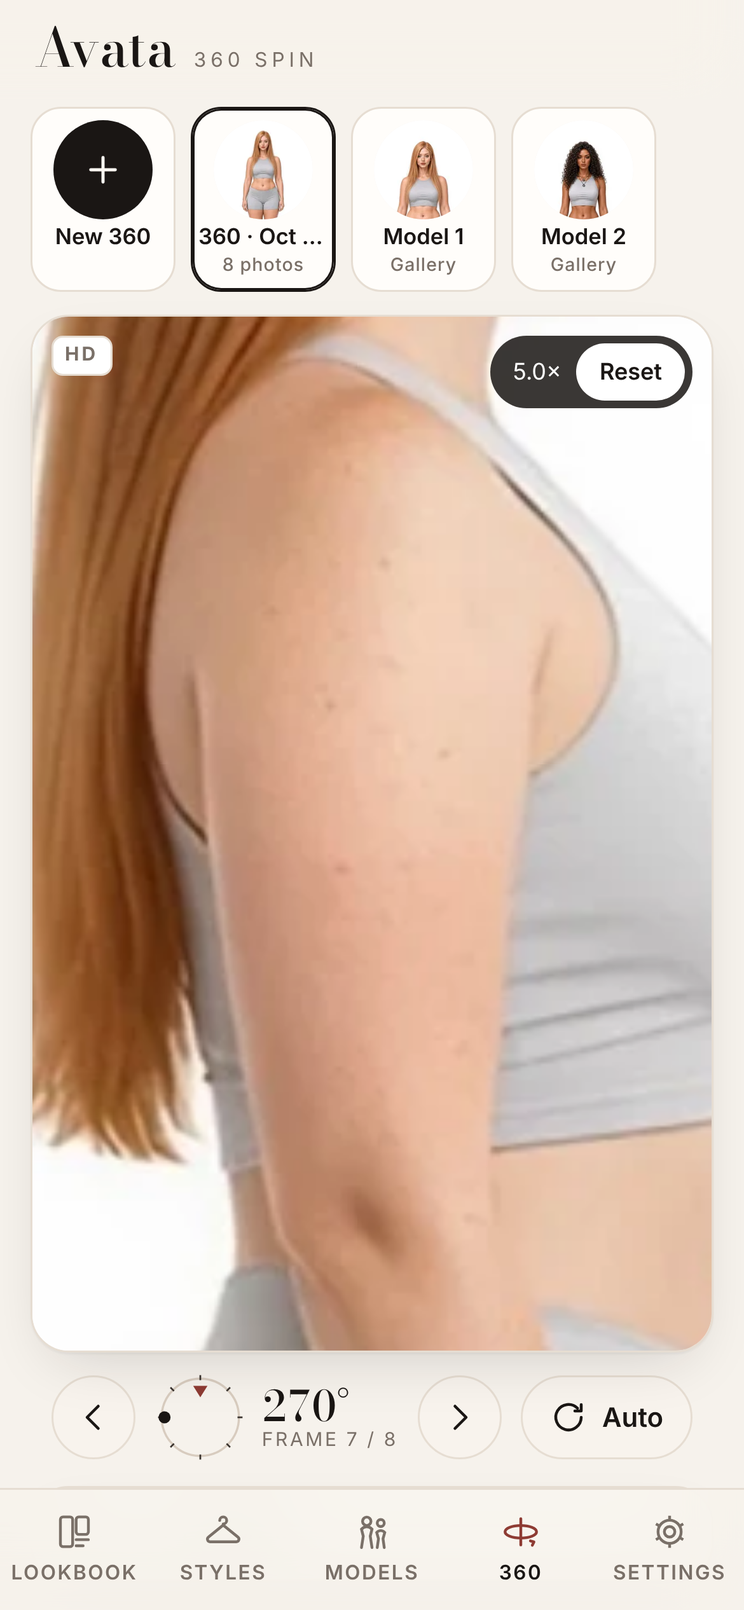
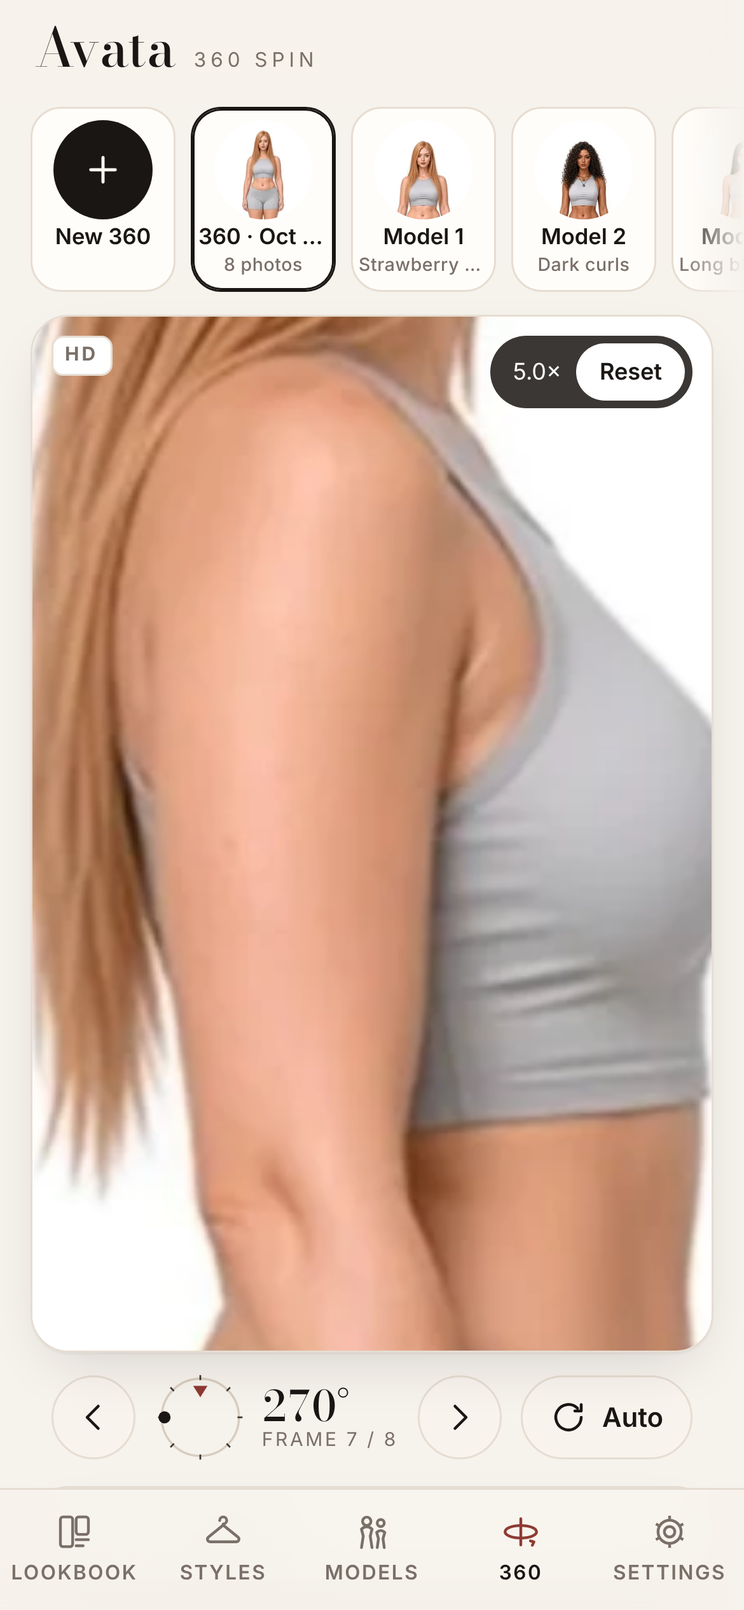
Starters: Models 3-6 from Jordan's exact turnaround sheets (same sizes/format as Model 1, assetRev enforced); existing installs gain new starters once (knownStarters; deleted ones never return); 360 switcher scales to 6 gallery models on mobile

diff --git a/js/store.js b/js/store.js
@@ -2,7 +2,7 @@
 import { db, uid } from './db.js';
 import { STARTERS, SAMPLE_STYLES, SAMPLE_LOOKS } from './starters.js';
 import { makeThumb } from './imaging.js';
-import { IMAGE_KEYS, contentRev, modelNeedsRefresh, lookNeedsRefresh, refreshedModel, refreshedLook, lookImageKey } from './starter-sync.js';
+import { IMAGE_KEYS, contentRev, modelNeedsRefresh, lookNeedsRefresh, refreshedModel, refreshedLook, lookImageKey, initialKnownStarters, startersToAdd, withKnown, newStarterRecord } from './starter-sync.js';
 
 export const CATEGORIES = ['Tops', 'Bottoms', 'Dresses', 'Outerwear', 'Sets', 'Knitwear', 'Activewear', 'Swim', 'Loungewear', 'Accessories', 'Other'];
 export const STATUSES = ['Concept', 'Sampling', 'Approved', 'In production', 'Shipped', 'Archived'];
@@ -33,14 +33,34 @@ async function verifiedRev(s, blobs) { const h = await contentRev(blobs).catch((
 
 export async function seedStarters(force = false) {
   if ((await db.get('kv', 'seeded')) && !force) return;
-  for (const s of STARTERS) {
+  const t0 = Date.now();
+  for (const [i, s] of STARTERS.entries()) {
     if (!force && await db.get('models', s.id)) continue;
     const blobs = await fetchStarterImages(s, force);
-    const { file, assetRev, ...rest } = s;
     const rev = await verifiedRev(s, blobs); // unverified (stale cache) → no rev → syncStarters retries next launch
-    await db.put('models', { ...rest, ...blobs, ...(rev ? { assetRev: rev } : {}), starter: true, createdAt: Date.now() - (s.id.endsWith('1') ? 2 : 1) });
+    await db.put('models', newStarterRecord(s, blobs, rev, t0 - (STARTERS.length - i))); // keeps STARTERS order
   }
+  await db.put('kv', withKnown(await db.get('kv', 'knownStarters'), STARTERS.map(s => s.id)), 'knownStarters');
   await db.put('kv', true, 'seeded');
+}
+
+/** Existing installs: add bundled starters that shipped after this install was seeded (once each). A starter the user
+ *  deleted stays deleted (its id is in kv 'knownStarters'); user models/looks/edits are untouched. A failed download
+ *  isn't recorded as known, so it is retried on the next launch. */
+export async function addNewStarters() {
+  if (!(await db.get('kv', 'seeded'))) return;
+  let known = await db.get('kv', 'knownStarters');
+  if (!Array.isArray(known)) { known = initialKnownStarters(await db.all('models')); await db.put('kv', known, 'knownStarters'); }
+  const t0 = Date.now();
+  for (const [i, s] of startersToAdd(STARTERS, known).entries()) {
+    try {
+      if (!(await db.get('models', s.id))) {
+        const blobs = await fetchStarterImages(s, true);
+        await db.put('models', newStarterRecord(s, blobs, await verifiedRev(s, blobs), t0 + i));
+      }
+      known = withKnown(known, [s.id]); await db.put('kv', known, 'knownStarters');
+    } catch (e) { console.warn('Avata: could not add new starter', s.id, '— will retry', e); }
+  }
 }
 
 /** Re-sync installed starters with the shipped assets. Replaces ONLY image fields of a starter model whose assetRev
@@ -100,6 +120,7 @@ export async function initData() {
   await seedStarters();
   await migrateGens();
   await seedSamples();
+  await addNewStarters(); // starters shipped after this install was seeded (never re-adds deleted ones)
   await syncStarters(); // refresh starters whose shipped images changed since they were stored
   await reload();
 }

diff --git a/styles.css b/styles.css
@@ -330,13 +330,17 @@ dialog.sheet.showcase{background:#faf7f2;color:#1a1614}
 
 /* 360 spin */
 .spin-page{padding-top:2px}
-.sp-switch{display:flex;gap:8px;overflow-x:auto;scrollbar-width:none;margin:0 -16px 10px;padding:2px 16px;scroll-snap-type:x proximity}
+.sp-switch{position:relative;display:flex;gap:8px;overflow-x:auto;scrollbar-width:none;margin:0 -16px 10px;padding:2px 16px;scroll-snap-type:x proximity;scroll-padding:0 16px;overscroll-behavior-x:contain;-webkit-overflow-scrolling:touch}
+/* many models (spins + 6 gallery models): soft edge fades show there is more to scroll */
+.sp-switch.fade-r{-webkit-mask-image:linear-gradient(90deg,#000 calc(100% - 34px),transparent);mask-image:linear-gradient(90deg,#000 calc(100% - 34px),transparent)}
+.sp-switch.fade-l{-webkit-mask-image:linear-gradient(90deg,transparent,#000 34px);mask-image:linear-gradient(90deg,transparent,#000 34px)}
+.sp-switch.fade-l.fade-r{-webkit-mask-image:linear-gradient(90deg,transparent,#000 34px,#000 calc(100% - 34px),transparent);mask-image:linear-gradient(90deg,transparent,#000 34px,#000 calc(100% - 34px),transparent)}
 .sp-switch::-webkit-scrollbar{display:none}
 .sp-switch button{flex:none;scroll-snap-align:start;display:flex;flex-direction:column;align-items:center;justify-content:flex-start;gap:3px;width:76px;min-height:0;padding:6px 4px 7px;border-radius:16px;background:var(--surface);border:1px solid var(--line);font-weight:500}
 .sp-switch img,.sp-plus{width:52px;height:52px;border-radius:50%;object-fit:cover;object-position:50% 10%;background:var(--surface2)}
 .sp-plus{display:grid;place-items:center;background:var(--solid);color:var(--on-solid)}
 .sp-switch b{font-size:11.5px;line-height:1.2;max-width:68px;overflow:hidden;text-overflow:ellipsis;white-space:nowrap;font-weight:600}
-.sp-switch small{font-size:9.5px;color:var(--muted);letter-spacing:.04em;line-height:1.1}
+.sp-switch small{font-size:9.5px;color:var(--muted);letter-spacing:.02em;line-height:1.15;max-width:68px;text-align:center;overflow:hidden;display:-webkit-box;-webkit-box-orient:vertical;-webkit-line-clamp:2;line-clamp:2}
 .sp-switch [aria-selected=true]{border-color:var(--ink);box-shadow:inset 0 0 0 1px var(--ink)}
 .sv{position:relative;width:100%;height:min(calc(100dvh - 300px - var(--safe-t) - var(--safe-b)),150vw);min-height:340px;background:#fff;border-radius:var(--r);overflow:hidden;box-shadow:var(--shadow);border:1px solid var(--line);touch-action:none;user-select:none;-webkit-user-select:none;-webkit-touch-callout:none;cursor:grab;outline:none}
 .sv:focus-visible{box-shadow:0 0 0 2px var(--acc)}.sv.ptr:focus-visible{box-shadow:var(--shadow)}

diff --git a/js/spin-view.js b/js/spin-view.js
@@ -7,6 +7,7 @@ import { buildSpin, makeSpinThumb } from './spin-build.js';
 
 const GALLERY = '../model-gallery/data/manifest.json';
 let galleryCache = null;
+let onResizeFade = null; addEventListener('resize', () => onResizeFade?.(), { passive: true }); // one listener for every render
 async function galleryModels() {
   if (galleryCache) return galleryCache;
   try {
@@ -34,10 +35,18 @@ export async function renderSpin(v, id) {
 
   function drawSwitch() {
     $('#spSwitch', v).innerHTML = `<button type="button" class="sp-new" id="spNew" aria-label="New 360 from photos or video"><span class="sp-plus">${icon('plus')}</span><b>New 360</b></button>` +
-      items().map(m => `<button type="button" class="sp-item" role="tab" data-id="${esc(m.id)}" aria-selected="${st.cur?.id === m.id}"><img src="${esc(m.thumbUrl)}" alt=""><b>${esc(m.name)}</b><small>${m.gallery ? 'Gallery' : `${m.frames.length} photos`}</small></button>`).join('');
+      items().map(m => `<button type="button" class="sp-item" role="tab" data-id="${esc(m.id)}" aria-selected="${st.cur?.id === m.id}"${m.gallery ? ` title="${esc(`${m.name} · ${m.sub || 'Gallery'}`)}"` : ''}><img src="${esc(m.thumbUrl)}" alt=""><b>${esc(m.name)}</b><small>${m.gallery ? esc(m.sub.split(' · ')[0] || 'Gallery') : `${m.frames.length} photos`}</small></button>`).join('');
     $('#spNew', v).onclick = () => $('#spFile', v).click();
     $$('.sp-item', v).forEach(b => b.onclick = () => select(b.dataset.id));
+    edgeFade();
   }
+  // edge fades on the scrolling switcher (6 gallery models + your spins rarely fit a phone width)
+  function edgeFade() {
+    const sw = $('#spSwitch', v); if (!sw) return;
+    sw.classList.toggle('fade-l', sw.scrollLeft > 4); sw.classList.toggle('fade-r', sw.scrollLeft + sw.clientWidth < sw.scrollWidth - 4);
+  }
+  $('#spSwitch', v).addEventListener('scroll', edgeFade, { passive: true });
+  onResizeFade = edgeFade;
   function drawEmpty() {
     const none = !items().length;
     $('#spEmpty', v).hidden = !none; $('#spView', v).hidden = none;

diff --git a/js/starter-sync.js b/js/starter-sync.js
@@ -28,3 +28,26 @@ export const refreshedLook = (stored, starter, blob) => ({ ...stored, image: blo
 
 /** Which shipped image a sample look shows (sample looks use the model's sheet/front/back file directly). */
 export const lookImageKey = sample => IMAGE_KEYS.includes(sample.view) ? sample.view : 'front';
+
+/* ---------- new starters on existing installs ----------
+ * kv 'knownStarters' = ids of every bundled starter this install has ever been given (kept OR deleted by the user).
+ * A starter shipped later (not in the list) is added once on the next launch and then recorded, so deleting it later
+ * sticks. Installs from before this list existed were seeded with exactly LEGACY_STARTER_IDS, so those count as known
+ * (a legacy starter the user deleted is never re-added). User models, looks and edits are never read or changed. */
+export const LEGACY_STARTER_IDS = ['starter-model-1', 'starter-model-2'];
+
+/** Known-starter list for an install that has none yet: the legacy seed set plus any starter records it still holds. */
+export const initialKnownStarters = (storedModels = []) =>
+  [...new Set([...LEGACY_STARTER_IDS, ...storedModels.filter(m => m && m.starter === true && typeof m.id === 'string').map(m => m.id)])];
+
+/** Shipped starters this install has never been given, in STARTERS order. */
+export const startersToAdd = (starters, known) => { const k = new Set(known || []); return starters.filter(s => !k.has(s.id)); };
+
+/** Known list after offering `ids` (order-preserving, no duplicates). */
+export const withKnown = (known, ids) => [...new Set([...(known || []), ...ids])];
+
+/** Model record for a newly added starter (same shape seedStarters writes). rev = verified assetRev or undefined. */
+export const newStarterRecord = (starter, blobs, rev, createdAt) => {
+  const { file, assetRev, ...rest } = starter;
+  return { ...rest, ...Object.fromEntries(IMAGE_KEYS.map(k => [k, blobs[k]])), ...(rev ? { assetRev: rev } : {}), starter: true, createdAt };
+};

diff --git a/js/starters.js b/js/starters.js
@@ -13,6 +13,26 @@ export const STARTERS = [
     measurements: { bust: 34, waist: 25, hips: 38, inseam: 29 }, measureUnit: 'in', measurementsEstimated: true,
     note: 'Long dark curls, tan skin',
   },
+  {
+    id: 'starter-model-3', name: 'Model 3', file: 'model-3', assetRev: '5bcd40dcd6fd', heightCm: 160, bodyType: 'slim', size: '2–4 / XS',
+    measurements: { bust: 32, waist: 24, hips: 34, inseam: 29 }, measureUnit: 'in', measurementsEstimated: true,
+    note: 'Long straight black hair, fair skin',
+  },
+  {
+    id: 'starter-model-4', name: 'Model 4', file: 'model-4', assetRev: '510dde6f33e6', heightCm: 160, bodyType: 'slim athletic', size: '4–6 / S',
+    measurements: { bust: 34, waist: 26, hips: 36, inseam: 29 }, measureUnit: 'in', measurementsEstimated: true,
+    note: 'Long straight dark-brown hair, tan skin',
+  },
+  {
+    id: 'starter-model-5', name: 'Model 5', file: 'model-5', assetRev: '85ca8e62555e', heightCm: 160, bodyType: 'curvy', size: '12–14 / L',
+    measurements: { bust: 40, waist: 32, hips: 44, inseam: 28 }, measureUnit: 'in', measurementsEstimated: true,
+    note: 'Long wavy black hair, deep tan skin',
+  },
+  {
+    id: 'starter-model-6', name: 'Model 6', file: 'model-6', assetRev: '124ee766ccd1', heightCm: 160, bodyType: 'full-figured', size: '16–18 / XL',
+    measurements: { bust: 44, waist: 38, hips: 48, inseam: 28 }, measureUnit: 'in', measurementsEstimated: true,
+    note: 'Long straight platinum-blonde hair, fair skin',
+  },
 ];
 
 // Clearly-labelled SAMPLE catalog so the app isn't empty. Not real factory data —

diff --git a/sw.js b/sw.js
@@ -3,7 +3,7 @@
 // offline fallback) so a new deploy is never served stale; big images/fonts are cache-first. Cross-origin requests
 // (only the optional BYOK APIs) are never touched. skipWaiting + clients.claim, so a new version takes over at once;
 // js/update.js then reloads the page when it's safe.
-const VERSION = '2026.10.17-220903-e9c1066';
+const VERSION = '2026.10.18-050337-2e23c27';
 const CACHE = `avata-${VERSION}`;
 const SHELL = [
   './', 'index.html', 'styles.css', 'manifest.webmanifest',
@@ -13,7 +13,7 @@ const SHELL = [
   'assets/samples/sketch-tank.svg', 'assets/samples/sketch-short.svg', 'assets/samples/sketch-set.svg',
   'assets/fonts/bodoni-moda.woff2', 'assets/fonts/bodoni-moda-italic.woff2',
   'icons/icon-192.png', 'icons/icon-512.png', 'icons/apple-touch-icon.png', 'icons/favicon-64.png',
-  ...['model-1', 'model-2'].flatMap(m => ['sheet', 'front', 'back', 'thumb'].map(k => `assets/models/${m}-${k}.webp`)),
+  ...['model-1', 'model-2', 'model-3', 'model-4', 'model-5', 'model-6'].flatMap(m => ['sheet', 'front', 'back', 'thumb'].map(k => `assets/models/${m}-${k}.webp`)),
 ];
 // cache:'reload' bypasses the HTTP cache (GitHub Pages sends max-age=600) so a new version never precaches old files
 self.addEventListener('install', e => { self.skipWaiting(); e.waitUntil(caches.open(CACHE).then(c => c.addAll(SHELL.map(u => new Request(u, { cache: 'reload' }))))); });

diff --git a/js/app.js b/js/app.js
@@ -10,7 +10,7 @@ import { renderSpin } from './spin-view.js';
 import { initUpdates } from './update.js';
 
 // VERSION is stamped automatically by the pre-commit hook (.githooks/pre-commit). Do not edit by hand.
-export const VERSION = '2026.10.17-220903-e9c1066';
+export const VERSION = '2026.10.18-050337-2e23c27';
 
 const TITLES = { looks: 'Lookbook', 'import-looks': 'Import mockups', styles: 'Catalog', style: 'Style', 'style-edit': 'Style', models: 'Model Library', model: 'Model', 'import-model': 'Import model', studio: 'Prompt builder', spin: '360 spin', settings: 'Settings' };
 const TAB_OF = { looks: 'looks', 'import-looks': 'looks', styles: 'styles', style: 'styles', 'style-edit': 'styles', models: 'models', model: 'models', 'import-model': 'models', studio: 'models', spin: 'spin', settings: 'settings' };

diff --git a/tools/e2e_starters.py b/tools/e2e_starters.py
@@ -1,7 +1,9 @@
 """Starter re-sync e2e: install the PREVIOUS release (old Model 1 images, old service worker with its cache-first image
 cache), make user edits, then deploy the current tree and relaunch. Checks that Model 1's images are refreshed to the
 shipped files while the user's rename/notes, user-created model, generated look, edited sample look metadata and a deleted
-sample look are left exactly as the user had them; then relaunches again to confirm it's idempotent.
+sample look are left exactly as the user had them; that starters shipped after the old release (Models 3-6) are added
+once with the current images; then relaunches again to confirm it's idempotent. Then the user deletes a new starter
+(Model 4) and a legacy one (Model 2): neither comes back on later launches. Finally a fresh install gets all starters.
 Usage: python3 tools/e2e_starters.py [old_git_ref]   (default: the commit before Model 1's assets changed)"""
 import hashlib, json, pathlib, shutil, socket, subprocess, sys, tempfile, time, io, tarfile
 from playwright.sync_api import sync_playwright
@@ -11,8 +13,11 @@ OLD = sys.argv[1] if len(sys.argv) > 1 else 'e9c1066^'
 TMP = pathlib.Path(tempfile.mkdtemp(prefix='avata-starters-')) / 'site'; TMP.mkdir()
 tarfile.open(fileobj=io.BytesIO(subprocess.run(['git', 'archive', OLD], cwd=ROOT, capture_output=True, check=True).stdout)).extractall(TMP, **({'filter': 'data'} if hasattr(tarfile, 'data_filter') else {}))
 def sha(b): return hashlib.sha256(b).hexdigest()
-NEW = {f'{m}-{k}': sha((ROOT / f'assets/models/{m}-{k}.webp').read_bytes()) for m in ('model-1', 'model-2') for k in ('sheet', 'front', 'back', 'thumb')}
-OLDH = {k: sha((TMP / f'assets/models/{k}.webp').read_bytes()) for k in NEW}
+STARTER_FILES = [f'model-{n}' for n in range(1, 7)]; ADDED = [f'starter-model-{n}' for n in range(3, 7)]   # 3-6 ship after OLD
+NEW = {f'{m}-{k}': sha((ROOT / f'assets/models/{m}-{k}.webp').read_bytes()) for m in STARTER_FILES for k in ('sheet', 'front', 'back', 'thumb')}
+REVS = dict(__import__('re').findall(r"id: '(starter-model-\d+)'.*?assetRev: '([0-9a-f]+)'", (ROOT / 'js/starters.js').read_text()))
+OLDH = {k: sha((TMP / f'assets/models/{k}.webp').read_bytes()) for k in NEW if k.startswith(('model-1-', 'model-2-'))}
+assert not (TMP / 'assets/models/model-3-front.webp').exists(), 'old ref must predate Models 3-6'
 assert OLDH['model-1-front'] != NEW['model-1-front'], 'old ref must have different Model 1 images'
 s = socket.socket(); s.bind(('127.0.0.1', 0)); PORT = s.getsockname()[1]; s.close()
 srv = subprocess.Popen([sys.executable, '-m', 'http.server', str(PORT), '--bind', '127.0.0.1'], cwd=TMP, stdout=subprocess.DEVNULL, stderr=subprocess.DEVNULL)
@@ -63,14 +68,40 @@ try:
     sa, sb = after['looks']['sample-look-model-1-front'], before['looks']['sample-look-model-1-front']
     check('sample_look_image_refreshed_meta_kept', sa['image'] == 'sha:' + NEW['model-1-front'] and sa['title'] == 'Edited sample' and sa['favorite'] is True and all(sa[k] == sb[k] for k in sb if k not in ('image', 'thumb')))
     check('deleted_sample_look_stays_deleted', 'sample-look-model-2-back' not in after['looks'])
-    check('no_records_added_or_lost', set(after['models']) == set(before['models']) and set(after['looks']) == set(before['looks']))
+    check('no_records_lost_only_new_starters_added', set(after['models']) == set(before['models']) | set(ADDED) and set(after['looks']) == set(before['looks']))
+    for sid in ADDED:
+      m, f = after['models'].get(sid, {}), sid.replace('starter-', '')
+      check(f'{f}_added_with_current_images', all(m.get(k) == 'sha:' + NEW[f'{f}-{k}'] for k in ('sheet', 'front', 'back', 'thumb')) and m.get('starter') is True and m.get('assetRev') == REVS[sid])
+    check('new_starters_after_existing_models', min(after['models'][s]['createdAt'] for s in ADDED) > max(v['createdAt'] for k, v in after['models'].items() if k not in ADDED))
+    R['known_after_upgrade'] = pg.evaluate(IDB, ['kv', 'get', 'knownStarters'])
+    check('known_starters_recorded', set(R['known_after_upgrade']) == {f'starter-model-{n}' for n in range(1, 7)})
     R['ui_names'] = pg.locator('.lib-card .nm').all_inner_texts()
     R['ui_model1_card_front'] = pg.evaluate("""async () => { const img = document.querySelector('.lib-card img'); const b = await (await fetch(img.src)).arrayBuffer();
       return [...new Uint8Array(await crypto.subtle.digest('SHA-256', b))].map(x => x.toString(16).padStart(2, '0')).join(''); }""") == NEW['model-1-front']
     check('ui_shows_new_model1', R['ui_model1_card_front'] and 'Ava (renamed)' in R['ui_names'])
+    check('ui_shows_new_starters', all(f'Model {n}' in R['ui_names'] for n in range(3, 7)))
+    pg.screenshot(path=str(ROOT / 'screenshots/starters-after-upgrade.png'))
     # 4) relaunch: idempotent (nothing changes)
     pg.reload(); pg.wait_for_selector('.lib-card'); pg.wait_for_timeout(1500)
     check('idempotent_second_launch', pg.evaluate(SNAP) == after)
+    # 5) user deletes a new starter and a legacy starter: they stay deleted, everything else unchanged
+    pg.evaluate(IDB, ['models', 'del', 'starter-model-4']); pg.evaluate(IDB, ['models', 'del', 'starter-model-2'])
+    gone = pg.evaluate(SNAP)
+    for _ in range(2): pg.reload(); pg.wait_for_selector('.lib-card'); pg.wait_for_timeout(1500)
+    again = pg.evaluate(SNAP)
+    check('deleted_starters_stay_deleted', 'starter-model-4' not in again['models'] and 'starter-model-2' not in again['models'])
+    check('nothing_else_changed_after_delete', again == gone)
+    c.close()
+    # 6) fresh install of the current tree: all starters, all recorded as known
+    c = b.new_context(viewport={'width': 390, 'height': 844}, is_mobile=True, has_touch=True); pg = c.new_page()
+    pg.on('pageerror', lambda e: errors.append(str(e)))
+    pg.goto(BASE + '#/models'); pg.wait_for_selector('.lib-card'); pg.wait_for_timeout(1500)
+    fresh = pg.evaluate(SNAP)
+    check('fresh_install_has_all_starters', all(f'starter-model-{n}' in fresh['models'] and fresh['models'][f'starter-model-{n}'].get('assetRev') == REVS[f'starter-model-{n}'] for n in range(1, 7)))
+    check('fresh_install_starter_order', [k for k, v in sorted(fresh['models'].items(), key=lambda kv: kv[1]['createdAt'])] == [f'starter-model-{n}' for n in range(1, 7)])
+    check('fresh_install_known', set(pg.evaluate(IDB, ['kv', 'get', 'knownStarters'])) == {f'starter-model-{n}' for n in range(1, 7)})
+    R['fresh_ui_names'] = pg.locator('.lib-card .nm').all_inner_texts()
+    pg.screenshot(path=str(ROOT / 'screenshots/starters-fresh.png'), full_page=True)
     b.close()
 finally:
   srv.terminate()

diff --git a/tools/e2e_spin.py b/tools/e2e_spin.py
@@ -74,6 +74,34 @@ with sync_playwright() as p:
   R['version'] = pg.evaluate("import('./js/app.js').then(m => m.VERSION)")
   shot(pg, '01-gallery-model')
 
+  # ---- every gallery model (manifest) is listed, loads its 8 frames and spins on drag; switcher scrolls on a phone ----
+  gids = pg.evaluate("[...document.querySelectorAll('.sp-item')].map(b => b.dataset.id).filter(id => id.startsWith('gallery:'))")
+  R['gallery_ids'] = gids; R['gallery_six'] = gids == [f'gallery:model-{n}' for n in range(1, 7)]
+  spun, bad = {}, []
+  for gid in gids:
+    pg.click(f'.sp-item[data-id="{gid}"]')
+    pg.wait_for_function(f"(() => {{ const S = document.querySelector('#spView').__spin; return S && S.frames.length === 8 && S.frames[0].lo.includes('/{gid[8:]}/') && document.querySelector('.sv-busy').hidden; }})()", timeout=30000)
+    pg.wait_for_timeout(400); auto_off(pg) if st(pg, 'S.auto') else None; pg.wait_for_timeout(700)
+    vb = pg.locator('.sv').bounding_box(); y = vb['y'] + vb['height'] * 0.5
+    a0 = st(pg, 'S.angle'); f0 = int(pg.get_attribute('.sv', 'data-frame'))
+    pg.mouse.move(vb['x'] + 320, y); pg.mouse.down()
+    for i in range(12): pg.mouse.move(vb['x'] + 320 - i * 12, y); pg.wait_for_timeout(16)
+    pg.mouse.up(); pg.wait_for_timeout(1200)
+    f1 = int(pg.get_attribute('.sv', 'data-frame')); a1 = st(pg, 'S.angle')
+    sel = pg.evaluate("document.querySelector('.sp-item[aria-selected=true]')?.dataset.id")
+    inview = pg.evaluate(f"""(() => {{ const b = document.querySelector('.sp-item[data-id="{gid}"]').getBoundingClientRect(), x = document.querySelector('#spSwitch').getBoundingClientRect(); return b.left >= x.left - 1 && b.right <= x.right + 1; }})()""")
+    img_ok = pg.evaluate("(() => { const a = document.querySelector('.sv-a'); return a.complete && a.naturalWidth === 600 && a.naturalHeight === 1024; })()")
+    spun[gid] = {'frames': st(pg, 'S.frames.length'), 'frame': [f0, f1], 'angle': [round(a0), round(a1)], 'selected': sel == gid, 'in_view': inview, 'img': img_ok}
+    if not (f0 != f1 and sel == gid and inview and img_ok): bad.append(gid)
+  R['gallery_spins'] = spun; R['gallery_all_spin'] = not bad and len(gids) == 6
+  R['switcher'] = pg.evaluate("(() => { const x = document.querySelector('#spSwitch'); return { scrolls: x.scrollWidth > x.clientWidth, rows: new Set([...x.children].map(b => Math.round(b.getBoundingClientRect().top))).size, h: Math.round(x.getBoundingClientRect().height), fade: x.className, pageOverflow: document.documentElement.scrollWidth - document.documentElement.clientWidth }; })()")
+  R['switcher_ok'] = R['switcher']['scrolls'] and R['switcher']['rows'] == 1 and R['switcher']['pageOverflow'] <= 0
+  # showcase screenshot: Model 5 selected, switcher scrolled to the new models
+  pg.click('.sp-item[data-id="gallery:model-5"]'); pg.wait_for_timeout(1500); auto_off(pg) if st(pg, 'S.auto') else None
+  pg.evaluate("document.querySelector('#spSwitch').scrollTo({left: document.querySelector('.sp-item[data-id=\"gallery:model-3\"]').offsetLeft - 16})"); pg.wait_for_timeout(900)
+  shot(pg, '00-new-models')
+  pg.click('.sp-item[data-id="gallery:model-1"]'); pg.wait_for_timeout(800); auto_off(pg) if st(pg, 'S.auto') else None; pg.wait_for_timeout(400)
+
   # ---- build from 8 photos picked out of order ----
   pg.set_input_files('#spFile', upload); pg.wait_for_timeout(250); shot(pg, '02-building')
   wait_built(pg, 8); pg.wait_for_timeout(600)

diff --git a/README.md b/README.md
@@ -16,7 +16,7 @@ server, no paid services. Live: https://jsal1218.github.io/avata/
   (margin shown), tags, photos (flat lays, tech sketches). Status bar with counts; detail page shows all mockups grouped
   by model; quick status change; CSV export.
 - **Models** — front/back reference sheets (auto-split), height (ft/in ⇄ cm), body type, size, measurements.
-  Two starter models bundled (5′3″ / 160 cm, measurements marked estimated).
+  Six starter models bundled (5′3″ / 160 cm, measurements marked estimated).
 - **360** — make a spin of a model from your own photos: tap **New 360**, pick several photos from different angles
   (multi-select from Photos) or one short turnaround video, done. Everything runs on the phone with the exact pixels — no AI,
   no uploads, nothing generated. Photos are auto-ordered (filename order when names are numbered, else picked order; drag to
@@ -61,6 +61,8 @@ cache-first; cross-origin requests are never touched. A new worker takes over im
 file picker, open sheet, unsaved edit, typing) it shows "Updated, tap to reload" and reloads the next time the app comes
 back from the background. Long tasks register with `holdWork()` from `js/ui.js`.
 Update e2e: `python3 tools/e2e_update.py` (serves a temp copy, deploys new versions, checks reload / toast / no loops).
-Starter re-sync e2e: `python3 tools/e2e_starters.py` (installs the previous release, adds user edits, deploys this tree, checks starter images refresh while user data is untouched).
+Starter re-sync e2e: `python3 tools/e2e_starters.py` (installs the previous release, adds user edits, deploys this tree, checks starter images refresh while user data is untouched, newly shipped starters are added once, and deleted starters stay deleted).
 
 **Changing a starter's images:** replace `assets/models/<file>-*.webp`, then set that starter's `assetRev` in `js/starters.js` (`npm test` prints the expected hash). Installed copies refresh only that starter's images on next launch; renames, notes, measurements, user models and looks are kept.
+
+**Adding a starter:** add its four images (Model 1's sizes: sheet 1500×1500, front 1025×1536, back 1023×1535, thumb 360×539 WebP; built with `/workspace/shared/model-gallery/tools/build_avata.py --model N`), append it to `STARTERS` with its `assetRev`, and add the files to the `SHELL` list in `sw.js`. Existing installs get it once on next launch (`addNewStarters`): kv `knownStarters` records every starter id an install has been given, so a starter the user deleted is never re-added. Sample looks stay limited to Models 1 and 2.
